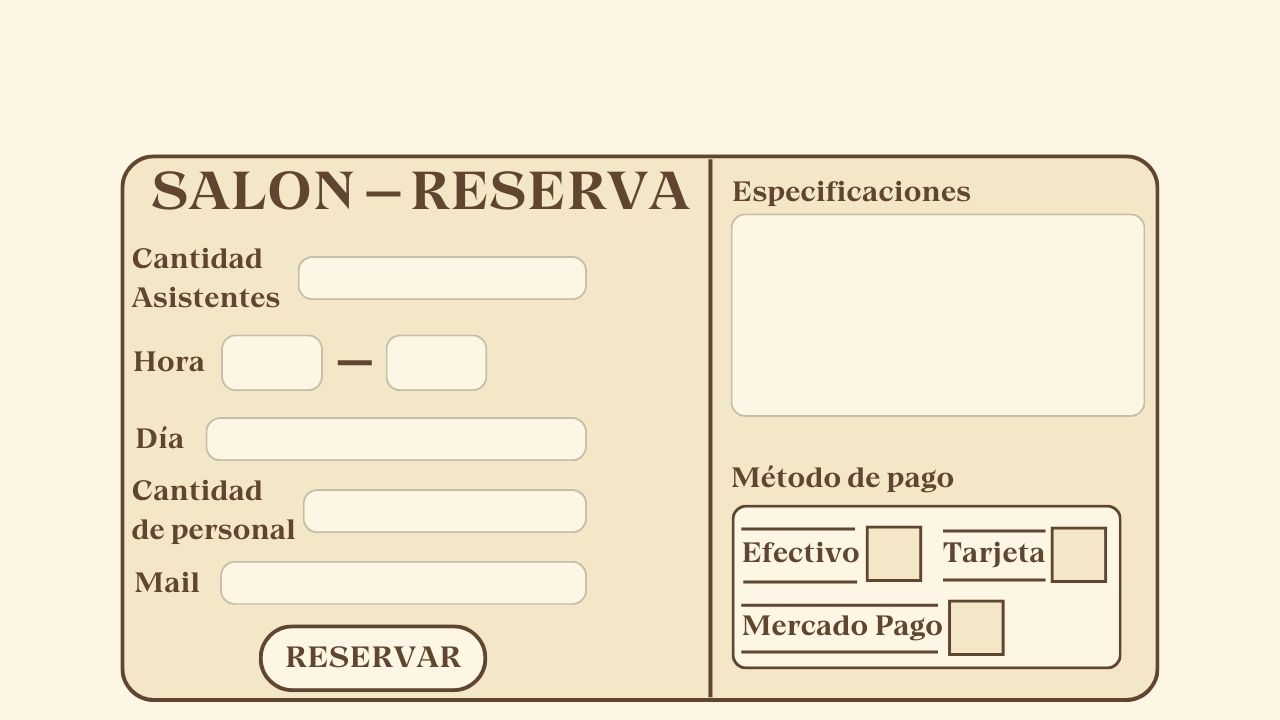
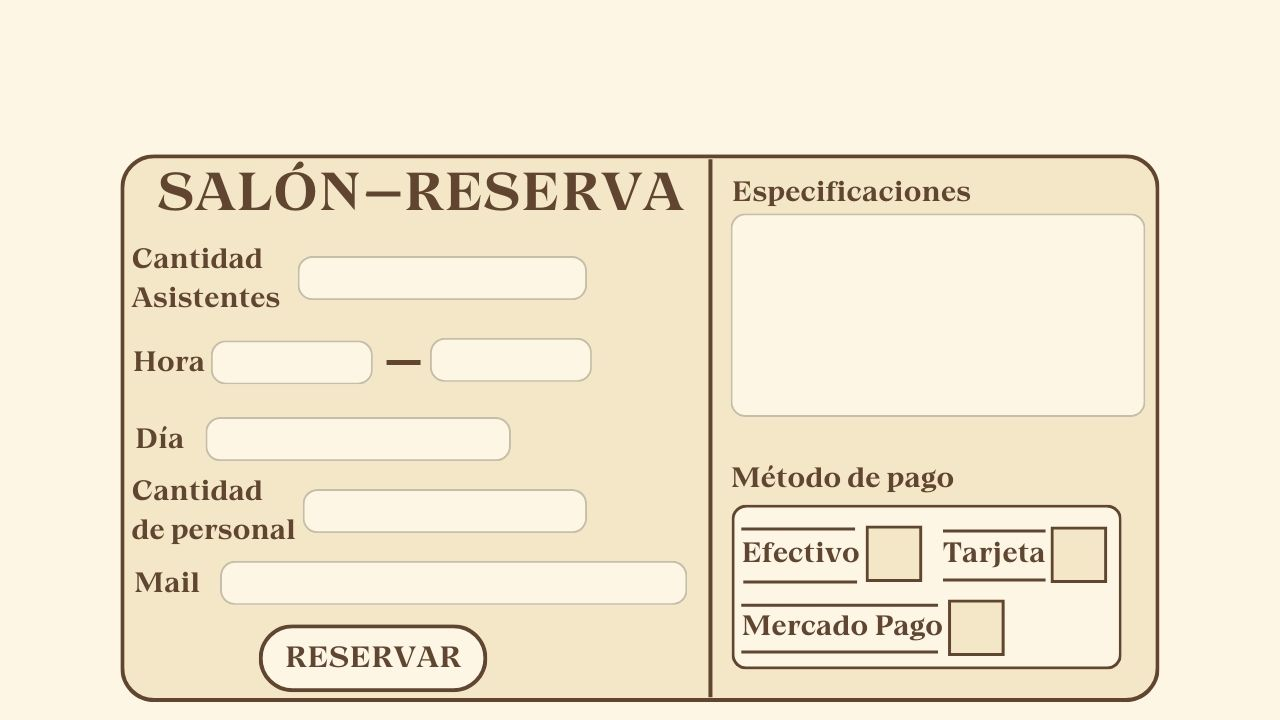
cc

diff --git a/main2.py b/main2.py
@@ -380,27 +380,27 @@ def cursor(mouse_pos):
             pygame.mouse.set_cursor(pygame.SYSTEM_CURSOR_IBEAM)
 
 
-        elif  mouse_pos[0] < 315 and mouse_pos[0] > 225 and mouse_pos[1] < 390 and mouse_pos[1] > 335: #inicia el horario
+        elif  mouse_pos[0] < 370 and mouse_pos[0] > 215 and mouse_pos[1] < 382 and mouse_pos[1] > 342: #inicia el horario
 
             pygame.mouse.set_cursor(pygame.SYSTEM_CURSOR_IBEAM)
 
 
-        elif  mouse_pos[0] < 485 and mouse_pos[0] > 390 and mouse_pos[1] < 390 and mouse_pos[1] > 335: #termina el horario el horario
+        elif  mouse_pos[0] < 590 and mouse_pos[0] > 430 and mouse_pos[1] < 380 and mouse_pos[1] > 345: #termina el horario
 
             pygame.mouse.set_cursor(pygame.SYSTEM_CURSOR_IBEAM)
 
 
-        elif  mouse_pos[0] < 580 and mouse_pos[0] > 200 and mouse_pos[1] < 460 and mouse_pos[1] > 415: #dia del evento
+        elif  mouse_pos[0] < 510 and mouse_pos[0] > 205 and mouse_pos[1] < 460 and mouse_pos[1] > 420: #dia del evento
 
             pygame.mouse.set_cursor(pygame.SYSTEM_CURSOR_IBEAM)
 
 
-        elif  mouse_pos[0] < 590 and mouse_pos[0] > 310 and mouse_pos[1] < 527 and mouse_pos[1] > 490: #personal requerido
+        elif  mouse_pos[0] < 590 and mouse_pos[0] > 305 and mouse_pos[1] < 530 and mouse_pos[1] > 490: #personal requerido
 
             pygame.mouse.set_cursor(pygame.SYSTEM_CURSOR_IBEAM)
 
 
-        elif  mouse_pos[0] < 590 and mouse_pos[0] > 225 and mouse_pos[1] < 600 and mouse_pos[1] > 560: #mail
+        elif  mouse_pos[0] < 690 and mouse_pos[0] > 220 and mouse_pos[1] < 605 and mouse_pos[1] > 565: #mail
 
             pygame.mouse.set_cursor(pygame.SYSTEM_CURSOR_IBEAM)
 
